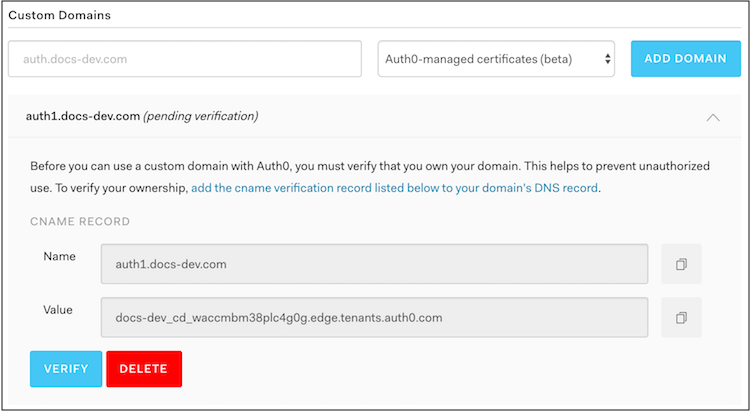
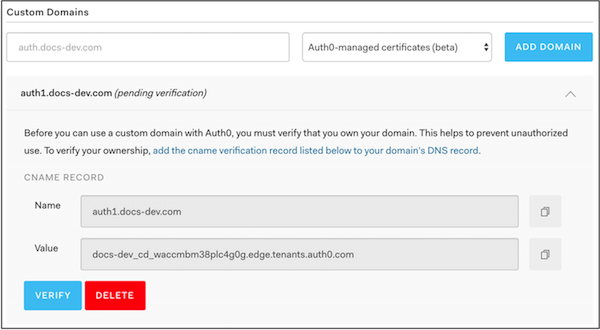
Resize screenshots

diff --git a/articles/custom-domains/index.md b/articles/custom-domains/index.md
@@ -60,7 +60,7 @@ Before you can use this domain, you'll need to verify that you own your domain:
 
 	![](/media/articles/custom-domains/auth0-managed.png)
 
-* **Self-Managed Certificates**:: Add the TXT verification record listed in the Dashboard to your domain's DNS record.
+* **Self-Managed Certificates**: Add the TXT verification record listed in the Dashboard to your domain's DNS record.
 
 	![](/media/articles/custom-domains/self-managed.png)
 
